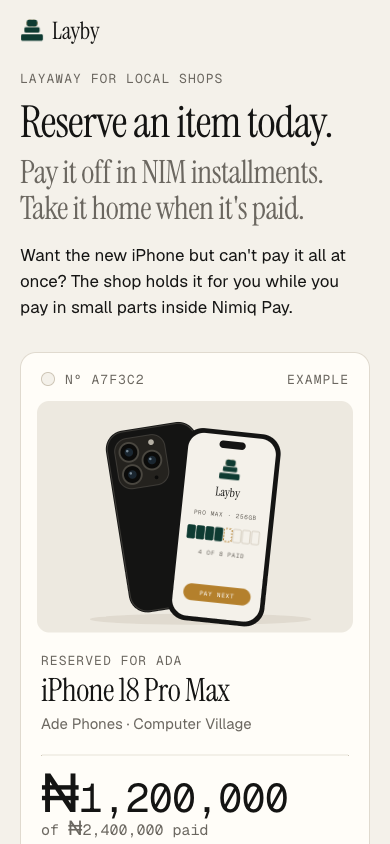
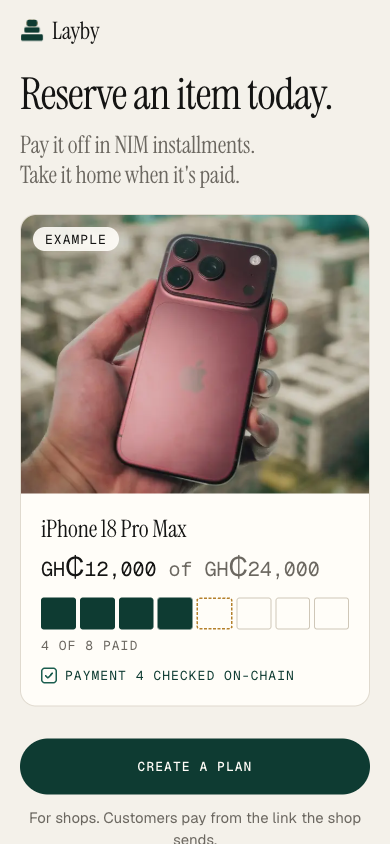
Real phone photo, cedis, lighter landing page
- Hero uses a real iPhone 18 Pro photo (Unsplash License, credited in README) instead of the drawing
- Example plan priced in Ghana cedis; amounts across the app use currency symbols (GH₵, ₦)
- Landing trimmed to headline, tagline, example plan, one action, how it works, six checks
- Shop and plan fallbacks use a monogram tile instead of the shopfront drawing
- Screenshots and banners regenerated

diff --git a/src/components/layby-tag.tsx b/src/components/layby-tag.tsx
@@ -1,24 +1,19 @@
 "use client";
 
+import Image from "next/image";
 import { useEffect, useState } from "react";
 import { PlanProgress } from "./plan-progress";
 import { CheckGlyph } from "./ui";
-import { PhoneArt } from "./phone-art";
 import { computeProgress, type Plan } from "@/lib/shared";
+import heroPhone from "../../public/hero-phone.jpg";
 
-const naira = (n: number) =>
-  new Intl.NumberFormat("en", { style: "currency", currency: "NGN", currencyDisplay: "narrowSymbol", maximumFractionDigits: 0 }).format(n);
+const cedis = (n: number) =>
+  new Intl.NumberFormat("en", { style: "currency", currency: "GHS", currencyDisplay: "narrowSymbol", maximumFractionDigits: 0 }).format(n);
 
-// An example plan, labelled as one on screen: the phone everyone wants this season, paid off small small.
-const EXAMPLE = {
-  price: 2400000,
-  installments: 8,
-  cadence: "weekly",
-  startDate: "2026-01-01",
-  currency: "NGN",
-} as Plan;
+// An example plan, labelled as one on screen: this season's phone, paid off in eight parts.
+const EXAMPLE = { price: 24000, installments: 8, cadence: "weekly", startDate: "2026-01-01", currency: "GHS" } as Plan;
 
-function scheduleFor(paidCount: number) {
+function progressFor(paidCount: number) {
   const paid = (EXAMPLE.price / EXAMPLE.installments) * paidCount;
   return computeProgress(
     EXAMPLE,
@@ -28,8 +23,8 @@ function scheduleFor(paidCount: number) {
 }
 
 /**
- * Landing hero: the paper tag a shop ties to a reserved item, as Layby draws it.
- * Plays one state change, once: the fourth payment is checked and its brick fills. No count-up on money (DESIGN.md §9).
+ * Landing hero: one item on layby. Plays one state change, once: payment 4 is checked and its brick fills.
+ * No count-up on money (DESIGN.md §9).
  */
 export function LaybyTag() {
   const [paidCount, setPaidCount] = useState(3);
@@ -40,47 +35,41 @@ export function LaybyTag() {
     return () => clearTimeout(t);
   }, []);
 
-  const progress = scheduleFor(paidCount);
-  const next = progress.nextDue;
+  const progress = progressFor(paidCount);
 
   return (
-    <figure className="tag-card px-5 pt-12 pb-5" aria-label="Example layby plan">
-      <span className="tag-hole" aria-hidden="true" />
-      <div className="num absolute top-[18px] right-5 left-11 flex justify-between text-label text-ink-muted uppercase">
-        <span>Nº a7f3c2</span>
-        <span>Example</span>
+    <figure className="overflow-hidden rounded-card border border-hairline bg-surface" aria-label="Example layby plan">
+      <div className="relative">
+        <Image
+          src={heroPhone}
+          alt="An iPhone 18 Pro held in a hand"
+          priority
+          sizes="(max-width: 420px) 100vw, 380px"
+          className="aspect-[5/4] h-auto w-full object-cover"
+        />
+        <span className="num absolute top-3 left-3 rounded-pill bg-surface/90 px-3 py-1 text-label text-ink uppercase">
+          Example
+        </span>
       </div>
 
-      <div className="-mx-1 mb-5 rounded-tile bg-canvas-sunk px-2 pt-3 pb-1">
-        <PhoneArt paidCount={paidCount} className="block h-auto w-full" />
-      </div>
-
-      <p className="num text-label text-ink-muted uppercase">Reserved for Ada</p>
-      <p className="mt-1 font-display text-display-l">iPhone 18 Pro Max</p>
-      <p className="mt-1 text-body-s text-ink-muted">Ade Phones · Computer Village</p>
-
-      <div className="dotted my-5" />
-
-      <p className="num text-amount-hero max-[360px]:text-[2rem]">{naira(progress.paid)}</p>
-      <p className="num text-amount-s text-ink-muted">of {naira(EXAMPLE.price)} paid</p>
-
-      <div className="mt-5">
-        <PlanProgress schedule={progress.schedule} />
-      </div>
-
-      <div className="mt-4 flex min-h-6 flex-wrap items-center justify-between gap-x-3 gap-y-2">
-        {paidCount === 4 ? (
-          <p key="checked" className="fade-late num flex items-center gap-2 whitespace-nowrap text-label text-green uppercase">
-            <CheckGlyph ok /> Payment 4 checked
-          </p>
-        ) : (
-          <p className="num text-label text-ink-muted uppercase">Shop keeps it safe</p>
-        )}
-        {next && (
-          <p className="num shrink-0 text-label text-ink-muted uppercase">
-            Next {naira(next.amount)}
-          </p>
-        )}
+      <div className="p-5">
+        <p className="font-display text-display-m">iPhone 18 Pro Max</p>
+        <p className="num mt-3 text-amount-m">
+          {cedis(progress.paid)}
+          <span className="text-ink-muted"> of {cedis(EXAMPLE.price)}</span>
+        </p>
+        <div className="mt-4">
+          <PlanProgress schedule={progress.schedule} />
+        </div>
+        <p className="num mt-3 flex min-h-5 items-center gap-2 text-label uppercase">
+          {paidCount === 4 ? (
+            <span key="checked" className="fade-late flex items-center gap-2 text-green">
+              <CheckGlyph ok /> Payment 4 checked on-chain
+            </span>
+          ) : (
+            <span className="text-ink-muted">Shop holds it while you pay</span>
+          )}
+        </p>
       </div>
     </figure>
   );

diff --git a/src/components/shop-header.tsx b/src/components/shop-header.tsx
@@ -1,31 +1,19 @@
 import { Pill } from "./ui";
 
-/** Woodcut-register line drawing of a shopfront: black line art, no color. DESIGN.md §5.4 fallback. */
-export function Shopfront({ className = "" }: { className?: string }) {
+/** No-photo fallback: the shop's initial, set in the display serif on a sunk tile. */
+export function Monogram({ name, className = "" }: { name: string; className?: string }) {
+  const letter = name.trim().charAt(0).toUpperCase() || "L";
   return (
-    <svg viewBox="0 0 160 90" className={className} aria-hidden="true" fill="none" stroke="var(--ink)" strokeWidth="1.4" strokeLinejoin="round" strokeLinecap="round">
-      <path d="M14 84V34h132v50" />
-      <path d="M8 84h144" />
-      <path d="M10 34l8-16h124l8 16" />
-      <path d="M18 34c0 5 4 8 9 8s9-3 9-8c0 5 4 8 9 8s9-3 9-8c0 5 4 8 9 8s9-3 9-8c0 5 4 8 9 8s9-3 9-8c0 5 4 8 9 8s9-3 9-8c0 5 4 8 9 8s9-3 9-8c0 5 4 8 9 8s9-3 9-8" />
-      <path d="M30 18V10h100v8" />
-      <path d="M58 14h44" strokeWidth="2" />
-      <rect x="26" y="52" width="40" height="32" />
-      <path d="M46 52v32M26 66h40" />
-      <rect x="84" y="50" width="26" height="34" />
-      <circle cx="105" cy="68" r="1.4" fill="var(--ink)" />
-      <path d="M120 84V60h18v24M120 66h18M120 72h18M120 78h18" />
-      <path d="M30 62h4M52 58l6 4M34 76l4-3" strokeWidth="1" />
-    </svg>
+    <div aria-hidden="true" className={`flex items-center justify-center rounded-tile bg-green-wash font-display text-green ${className}`}>
+      {letter}
+    </div>
   );
 }
 
 export function ShopHeader({ name, place }: { name: string; place?: string }) {
   return (
     <div className="flex min-w-0 flex-1 items-center gap-4">
-      <div className="flex h-16 w-20 shrink-0 items-center justify-center rounded-tile bg-canvas-sunk p-2">
-        <Shopfront className="h-full w-full" />
-      </div>
+      <Monogram name={name} className="h-16 w-16 shrink-0 text-[2.25rem]" />
       <div className="min-w-0">
         <p className="font-display text-display-m truncate">{name}</p>
         {place && <p className="text-body-s text-ink-muted truncate">{place}</p>}

diff --git a/src/app/page.tsx b/src/app/page.tsx
@@ -62,21 +62,14 @@ export default function Home() {
     <div className="pt-2">
       {/* 1. Promise */}
       <section>
-        <p className="num text-label text-ink-muted uppercase">Layaway for local shops</p>
-        <h1 className="mt-3 font-display text-display-xl text-balance">
-          Reserve an item today.
-          <span className="mt-2 block text-display-l text-ink-muted">
-            Pay it off in NIM installments. Take it home when it&apos;s paid.
-          </span>
-        </h1>
-        <p className="mt-4 text-body">
-          Want the new iPhone but can&apos;t pay it all at once? The shop holds it for you while you pay in small
-          parts inside Nimiq Pay.
+        <h1 className="font-display text-display-xl text-balance">Reserve an item today.</h1>
+        <p className="mt-3 font-display text-display-m text-ink-muted text-balance">
+          Pay it off in NIM installments. Take it home when it&apos;s paid.
         </p>
       </section>
 
       {/* 2. The product, shown */}
-      <section className="mt-8">
+      <section className="mt-6">
         <LaybyTag />
       </section>
 
@@ -84,7 +77,7 @@ export default function Home() {
       <section className="mt-8">
         <Link href="/new" className="btn btn-primary">Create a plan</Link>
         <p className="mt-3 text-center text-body-s text-ink-muted">
-          For shops. Paying for something? Open the link the shop sent you.
+          For shops. Customers pay from the link the shop sends.
         </p>
       </section>
 
@@ -118,10 +111,6 @@ export default function Home() {
               </li>
             ))}
           </ul>
-          <div className="dotted my-4" />
-          <p className="text-body-s text-ink-muted">
-            Money goes straight to the shop&apos;s wallet. Layby never holds it, and every receipt is public.
-          </p>
         </div>
       </section>
 

diff --git a/src/components/plan-card.tsx b/src/components/plan-card.tsx
@@ -2,7 +2,7 @@ import Link from "next/link";
 import { computeProgress, formatDate, formatMoney, type Plan } from "@/lib/shared";
 import { PlanProgress } from "./plan-progress";
 import { Pill } from "./ui";
-import { Shopfront } from "./shop-header";
+import { Monogram } from "./shop-header";
 
 /** DESIGN.md §6 PlanCard. Whole card is the tap target. */
 export function PlanCard({ plan, paid }: { plan: Plan; paid: number }) {
@@ -17,7 +17,7 @@ export function PlanCard({ plan, paid }: { plan: Plan; paid: number }) {
           // eslint-disable-next-line @next/next/no-img-element
           <img src={`/api/plans/${plan.id}/photo`} alt="" className="h-full w-full object-cover" loading="lazy" />
         ) : (
-          <Shopfront className="h-full w-full p-8" />
+          <Monogram name={plan.item} className="h-full w-full text-[5rem]" />
         )}
       </div>
       <p className="text-body font-medium">{plan.item}</p>

diff --git a/src/lib/shared.ts b/src/lib/shared.ts
@@ -158,7 +158,8 @@ export function computeProgress(plan: Plan, payments: Payment[], now = new Date(
   };
 }
 
-export function formatMoney(amount: number, currency: Currency) {
+/** `symbol: false` keeps the ISO code (GHS, NGN) for renderers without the ₵ / ₦ glyphs, such as the share images. */
+export function formatMoney(amount: number, currency: Currency, { symbol = true }: { symbol?: boolean } = {}) {
   if (currency === "NIM") {
     return `${new Intl.NumberFormat("en", { maximumFractionDigits: 2 }).format(amount)} NIM`;
   }
@@ -166,6 +167,7 @@ export function formatMoney(amount: number, currency: Currency) {
     return new Intl.NumberFormat("en", {
       style: "currency",
       currency,
+      currencyDisplay: symbol ? "narrowSymbol" : "code",
       maximumFractionDigits: amount >= 1000 ? 0 : 2,
     }).format(amount);
   } catch {

diff --git a/src/app/p/[id]/opengraph-image.tsx b/src/app/p/[id]/opengraph-image.tsx
@@ -32,7 +32,7 @@ export default async function Image({ params }: { params: Promise<{ id: string }
   const paidCount = progress.schedule.filter((s) => s.covered).length;
   const status =
     plan.status === "collected" ? "COLLECTED" : progress.fullyPaid ? "PAID IN FULL" : `${paidCount} OF ${plan.installments} PAID`;
-  const amount = `${formatMoney(progress.paid, plan.currency)} of ${formatMoney(plan.price, plan.currency)}`;
+  const amount = `${formatMoney(progress.paid, plan.currency, { symbol: false })} of ${formatMoney(plan.price, plan.currency, { symbol: false })}`;
   const shop = plan.merchantName.toUpperCase();
   const fonts = await ogFonts(`${plan.item}Layby`, `${shop}${status}${amount}0123456789 LAYBY·PAIDINNIM`);
 

diff --git a/src/app/globals.css b/src/app/globals.css
@@ -467,30 +467,6 @@ textarea.field {
   }
 }
 
-/* ── Layby tag (landing hero): the paper tag a shop ties to a reserved item ── */
-.tag-card {
-  position: relative;
-  border-radius: var(--r-card);
-  border: 1px solid var(--hairline);
-  background: var(--surface);
-}
-.tag-hole {
-  position: absolute;
-  top: 19px;
-  left: 20px;
-  width: 14px;
-  height: 14px;
-  border-radius: 999px;
-  background: var(--canvas);
-  border: 1px solid var(--hairline-firm);
-}
 .fade-late {
   animation: fade-in 240ms linear both;
-}
-
-/* Newly paid brick in the hero art: one scale-and-fill, once. */
-.brick-pop {
-  transform-box: fill-box;
-  transform-origin: center;
-  animation: brick-new 320ms var(--ease) both;
 }

diff --git a/README.md b/README.md
@@ -8,7 +8,7 @@
 
 Layaway for local shops, inside Nimiq Pay.
 
-Want the new iPhone 18 Pro Max but can't pay for it all at once? With Layby, the shop holds the item while you pay it off in small NIM installments in Nimiq Pay. Payments go straight to the shop's wallet, and Layby checks each one on the Nimiq chain before it counts. When the last payment lands, you show a collect code at the counter and take it home.
+Want the new iPhone 18 Pro Max but can't pay for it all at once? With Layby, the shop holds the item while you pay it off in NIM installments in Nimiq Pay. Payments go straight to the shop's wallet, and Layby checks each one on the Nimiq chain before it counts. When the last payment lands, you show a collect code at the counter and take it home.
 
 [Live app](https://laybyapp.vercel.app) · [How it works](https://laybyapp.vercel.app/how) · [Design system](./DESIGN.md)
 
@@ -234,6 +234,9 @@ signed quotes (honoured, expired, tampered, wrong currency).
 - Collect-code input (`src/components/otp-input.tsx`) adapted from [Rare UI](https://rareui.com) by Swami Malode,
   used under its MIT + Commons Clause + Attribution license. That file keeps its original notice and license terms.
 - Smooth scrolling on desktop by [Lenis](https://github.com/darkroomengineering/lenis).
+- Home page phone photo (`public/hero-phone.jpg`, cropped) by [Nejc Soklič](https://unsplash.com/@nejc_soklic) on
+  [Unsplash](https://unsplash.com/photos/uBO-jDcJAUs), used under the Unsplash License. iPhone is a trademark of
+  Apple Inc.; Layby is not affiliated with Apple.
 
 ---
 
